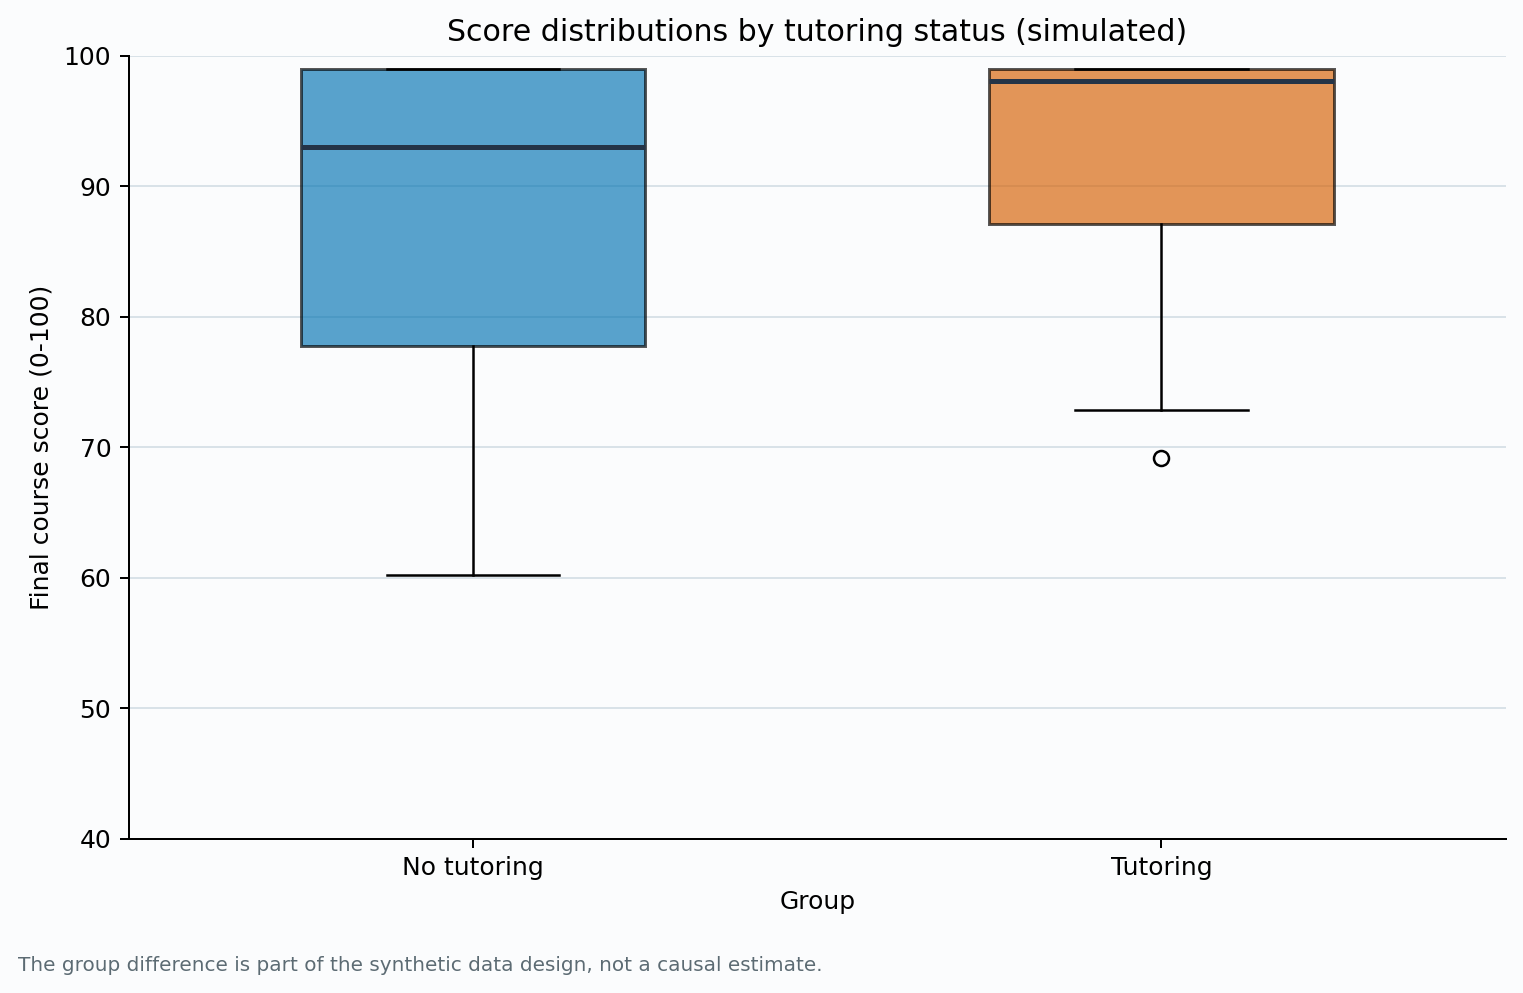
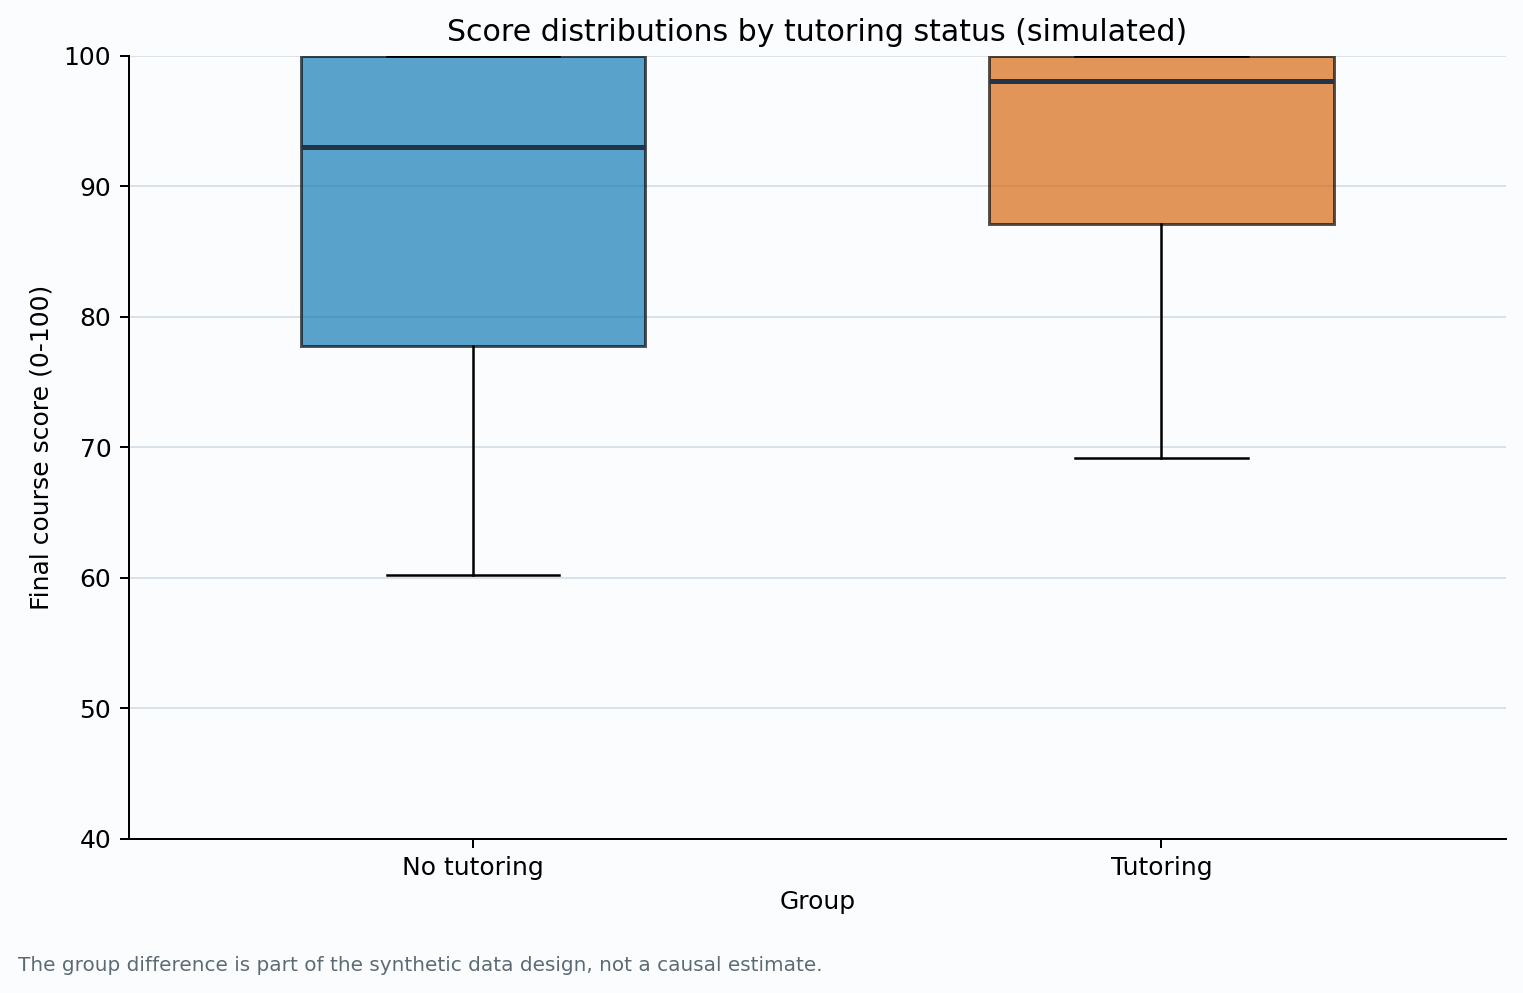
Improve high-score analysis based on peer feedback

Changed region(s): [[0.1852, 0.0312, 0.432, 0.0937], [0.6481, 0.0312, 0.8949, 0.0937], [0.7406, 0.4058, 0.7715, 0.4683]]

diff --git a/src/analyze.py b/src/analyze.py
@@ -19,7 +19,7 @@ def make_data(n: int = 120) -> pd.DataFrame:
 
     # A deliberately chosen pattern: larger gains up to 15 hours, then smaller gains.
     base = 58 + 2.35 * np.minimum(hours, 15) + 0.72 * np.maximum(hours - 15, 0)
-    score = np.clip(base + tutoring * 5.2 + rng.normal(0, 4.2, n), 40, 99)
+    score = np.clip(base + tutoring * 5.2 + rng.normal(0, 4.2, n), 40, 100)
     return pd.DataFrame(
         {
             "study_hours_per_week": hours.round(2),
@@ -85,6 +85,54 @@ def make_boxplot(data: pd.DataFrame) -> None:
     plt.close(fig)
 
 
+def make_binned_comparison(data: pd.DataFrame) -> None:
+    """Diagnose the score ceiling among students studying at least 15 hours/week."""
+    bins = [15, 20, 25, 30.01]
+    labels = ["15-20", "20-25", "25-30"]
+    data = data[data["study_hours_per_week"] >= 15].copy()
+    data["study_band"] = pd.cut(data["study_hours_per_week"], bins=bins, labels=labels, right=False)
+    grouped = data.groupby(["study_band", "tutoring"], observed=False)["final_score"].agg(["mean", "count", "std"])
+    grouped["se"] = grouped["std"].fillna(0) / np.sqrt(grouped["count"].clip(lower=1))
+    grouped["at_ceiling"] = data.assign(at_ceiling=data["final_score"] >= 100).groupby(
+        ["study_band", "tutoring"], observed=False
+    )["at_ceiling"].mean() * 100
+
+    fig, (ax, ax2) = plt.subplots(2, 1, figsize=(9.5, 7.2), dpi=180, sharex=True,
+                                  gridspec_kw={"height_ratios": [2, 1]})
+    fig.patch.set_facecolor("#FBFCFD")
+    for panel in (ax, ax2): panel.set_facecolor("#FBFCFD")
+    colors = {"No": "#0072B2", "Yes": "#D55E00"}
+    offsets = {"No": -0.12, "Yes": 0.12}
+    x = np.arange(len(labels))
+    for status in ["No", "Yes"]:
+        g = grouped.xs(status, level="tutoring").reindex(labels)
+        ax.errorbar(x + offsets[status], g["mean"], yerr=1.96 * g["se"],
+                    fmt="o-", lw=2.2, capsize=4, color=colors[status],
+                    label=f"Tutoring: {status}")
+        ax2.plot(x + offsets[status], g["at_ceiling"], "o-", lw=2.0,
+                 color=colors[status])
+        for xi, mean, count in zip(x + offsets[status], g["mean"], g["count"]):
+            if count > 0:
+                ax.annotate(f"n={int(count)}", (xi, mean), xytext=(0, 10),
+                            textcoords="offset points", ha="center", fontsize=7, color=colors[status])
+    ax.set_ylabel("Mean score (zoomed 85-100 axis)")
+    ax.set_ylim(85, 101)
+    ax.set_title("High-hour scores: inspect the mean and the 100-point ceiling")
+    ax.grid(axis="y", color="#D9E2E8", linewidth=0.8)
+    ax.spines[["top", "right"]].set_visible(False)
+    ax.legend(frameon=False, ncol=2, loc="lower right")
+    ax2.set_xticks(x, labels)
+    ax2.set_xlabel("Focused study-time band (hours/week)")
+    ax2.set_ylabel("At 100 (%)")
+    ax2.set_ylim(-5, 105)
+    ax2.grid(axis="y", color="#D9E2E8", linewidth=0.8)
+    ax2.spines[["top", "right"]].set_visible(False)
+    fig.text(0.01, 0.01, "Top: group means with descriptive 95% CIs; the y-axis is deliberately zoomed. Bottom: share at the 100-point cap. Synthetic sample; small bins are labeled with n.", color="#5C6B73", fontsize=7.5)
+    fig.tight_layout(rect=[0, 0.04, 1, 1])
+    fig.savefig(FIGURES_DIR / "binned-score-comparison.png", bbox_inches="tight")
+    plt.close(fig)
+
+
 def main() -> None:
     DATA_DIR.mkdir(exist_ok=True)
     FIGURES_DIR.mkdir(exist_ok=True)
@@ -92,7 +140,8 @@ def main() -> None:
     data.to_csv(DATA_DIR / "study_hours_simulated.csv", index=False)
     make_scatterplot(data)
     make_boxplot(data)
-    print(f"Saved {len(data)} synthetic records and two figures under {ROOT}")
+    make_binned_comparison(data)
+    print(f"Saved {len(data)} synthetic records and three figures under {ROOT}")
 
 
 if __name__ == "__main__":

diff --git a/README.md b/README.md
@@ -12,13 +12,17 @@ This project uses a fully simulated dataset of 120 hypothetical students. It con
 
 ## Methods and tools
 
-Python, NumPy, pandas, and Matplotlib are used to generate the reproducible sample, summarize groups, and create two static visualizations. The scatterplot compares study hours with scores and displays the simulation's segmented average patterns. The boxplot compares score distributions by tutoring status.
+Python, NumPy, pandas, and Matplotlib are used to generate the reproducible sample, summarize groups, and create three static visualizations. The scatterplot compares study hours with scores and displays the simulation's segmented average patterns. The boxplot compares score distributions by tutoring status. A binned mean plot compares the tutoring groups within study-hour bands and makes high-score differences easier to inspect.
 
 ## Key findings
 
 In this simulated example, scores rise more quickly up to about 15 study hours per week and then rise more slowly. The tutoring group is generated with an approximately five-point score offset at the same study time. See the figures in `figures/` for the pattern and spread.
 
 These are properties intentionally built into the simulated data. They are not empirical findings about real students, and the tutoring difference does not establish a causal effect.
+
+## Peer-feedback improvement
+
+A classmate noted that many scores at the high end reached the 100-point ceiling, making small differences difficult to see. I kept the original scatterplot because it shows individual variation, then added `figures/binned-score-comparison.png` to focus on students studying at least 15 hours. Its upper panel compares group means with descriptive 95% confidence intervals using an explicitly zoomed 85-100 score axis; the lower panel shows the share reaching 100, and labels the group counts. The axis break and ceiling rates make the compression visible instead of implying that small score differences are as large as the visual zoom might suggest.
 
 ## Limitation
 
